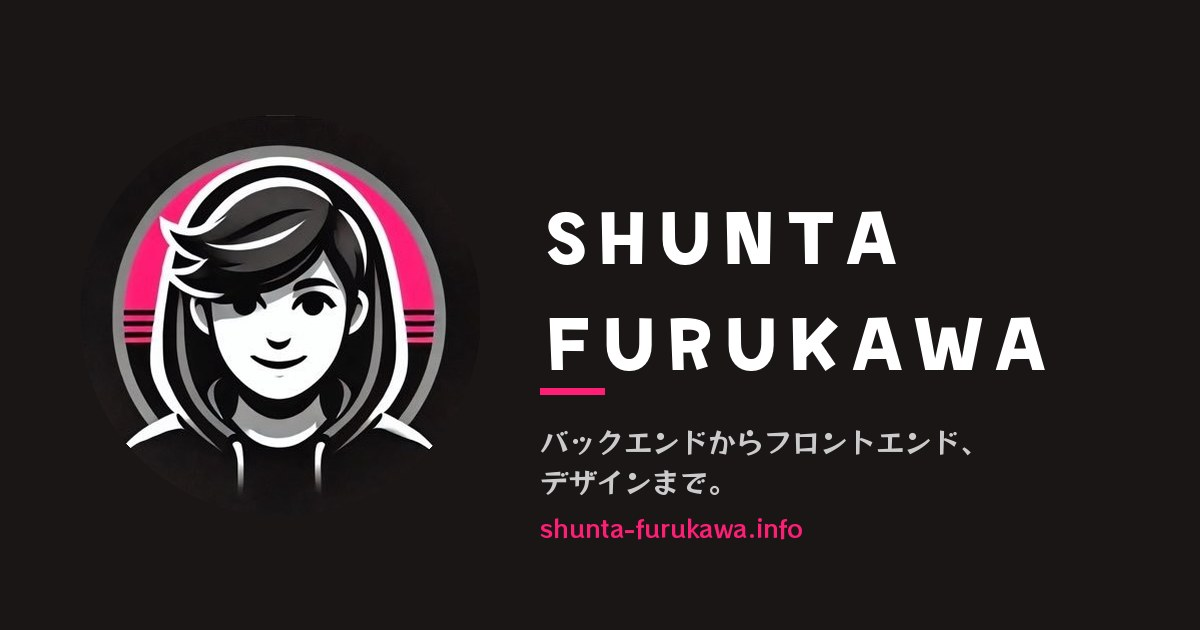
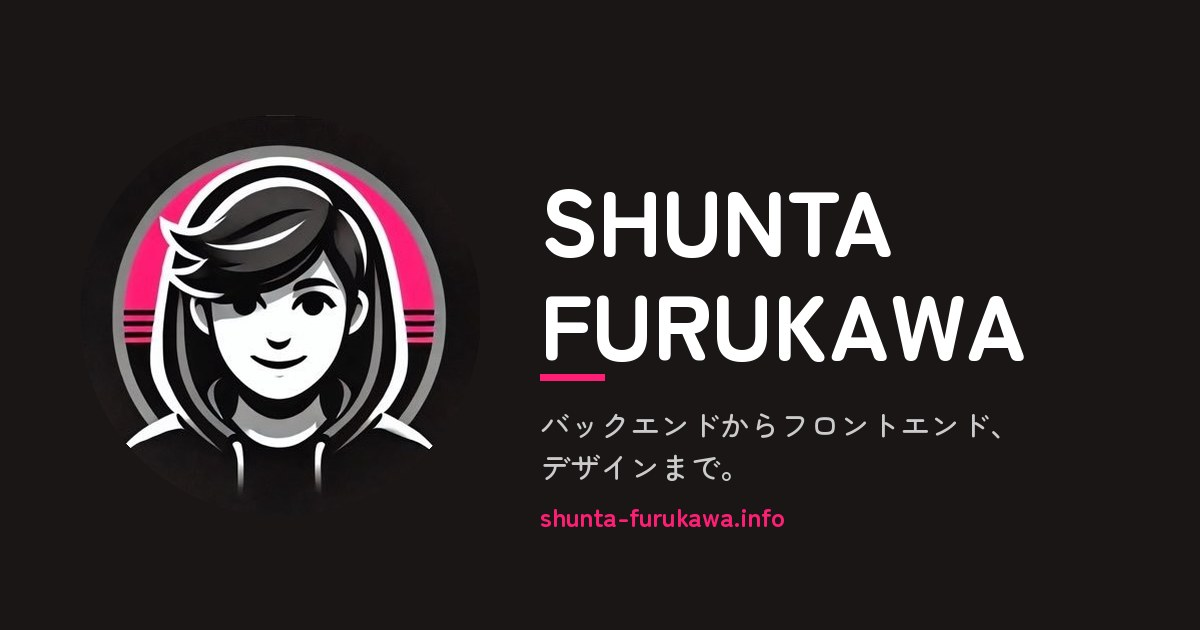
Regenerate OG image with Zen Maru Gothic
Match the site's new typography. The script now auto-downloads
Zen Maru Gothic (Black / Medium / Bold) into scripts/fonts/ on
first run, so the 11MB of font files stay out of git.

diff --git a/scripts/make_og.py b/scripts/make_og.py
@@ -3,7 +3,13 @@
 Run from repo root:
     pip install Pillow
     python3 scripts/make_og.py
+
+Fonts (Zen Maru Gothic) are downloaded into scripts/fonts/ on first run.
+That directory is gitignored to keep the repo light.
 """
+import os
+import urllib.request
+
 from PIL import Image, ImageDraw, ImageFont
 
 W, H = 1200, 630
@@ -13,9 +19,30 @@ WHITE = (255, 255, 255)
 MUTED = (203, 203, 203)
 
 LOGO_PATH = "themes/shunta-furukawa-info/static/images/logo.jpg"
-FONT_DISPLAY = "themes/shunta-furukawa-info/static/fonts/Buildingsandundertherailwaytracksfree_ver.otf"
-FONT_BODY = "themes/shunta-furukawa-info/static/fonts/RocknRollOne-Regular.ttf"
 OUT = "themes/shunta-furukawa-info/static/images/og-default.jpg"
+
+FONT_DIR = "scripts/fonts"
+FONT_BASE_URL = "https://raw.githubusercontent.com/google/fonts/main/ofl/zenmarugothic"
+FONT_FILES = {
+    "black": "ZenMaruGothic-Black.ttf",
+    "bold": "ZenMaruGothic-Bold.ttf",
+    "medium": "ZenMaruGothic-Medium.ttf",
+}
+
+
+def ensure_font(name: str) -> str:
+    path = os.path.join(FONT_DIR, name)
+    if not os.path.exists(path):
+        os.makedirs(FONT_DIR, exist_ok=True)
+        url = f"{FONT_BASE_URL}/{name}"
+        print(f"downloading {url}")
+        urllib.request.urlretrieve(url, path)
+    return path
+
+
+FONT_TITLE = ensure_font(FONT_FILES["black"])
+FONT_BODY = ensure_font(FONT_FILES["medium"])
+FONT_TAG = ensure_font(FONT_FILES["bold"])
 
 canvas = Image.new("RGB", (W, H), BG)
 draw = ImageDraw.Draw(canvas)
@@ -29,17 +56,17 @@ logo_x = 80
 logo_y = (H - logo_size) // 2
 canvas.paste(logo, (logo_x, logo_y), mask)
 
-title_font = ImageFont.truetype(FONT_DISPLAY, 96)
-body_font = ImageFont.truetype(FONT_BODY, 28)
-tag_font = ImageFont.truetype(FONT_BODY, 24)
+title_font = ImageFont.truetype(FONT_TITLE, 92)
+body_font = ImageFont.truetype(FONT_BODY, 30)
+tag_font = ImageFont.truetype(FONT_TAG, 26)
 
 text_x = logo_x + logo_size + 60
 
 title_lines = ["SHUNTA", "FURUKAWA"]
-y = 160
+y = 150
 for line in title_lines:
     draw.text((text_x, y), line, font=title_font, fill=WHITE)
-    y += 106
+    y += 104
 
 draw.rectangle((text_x, y + 16, text_x + 64, y + 22), fill=PINK)
 
@@ -47,10 +74,10 @@ desc_lines = [
     "バックエンドからフロントエンド、",
     "デザインまで。",
 ]
-y += 48
+y += 44
 for line in desc_lines:
     draw.text((text_x, y), line, font=body_font, fill=MUTED)
-    y += 40
+    y += 42
 
 draw.text((text_x, y + 10), "shunta-furukawa.info", font=tag_font, fill=PINK)
 
